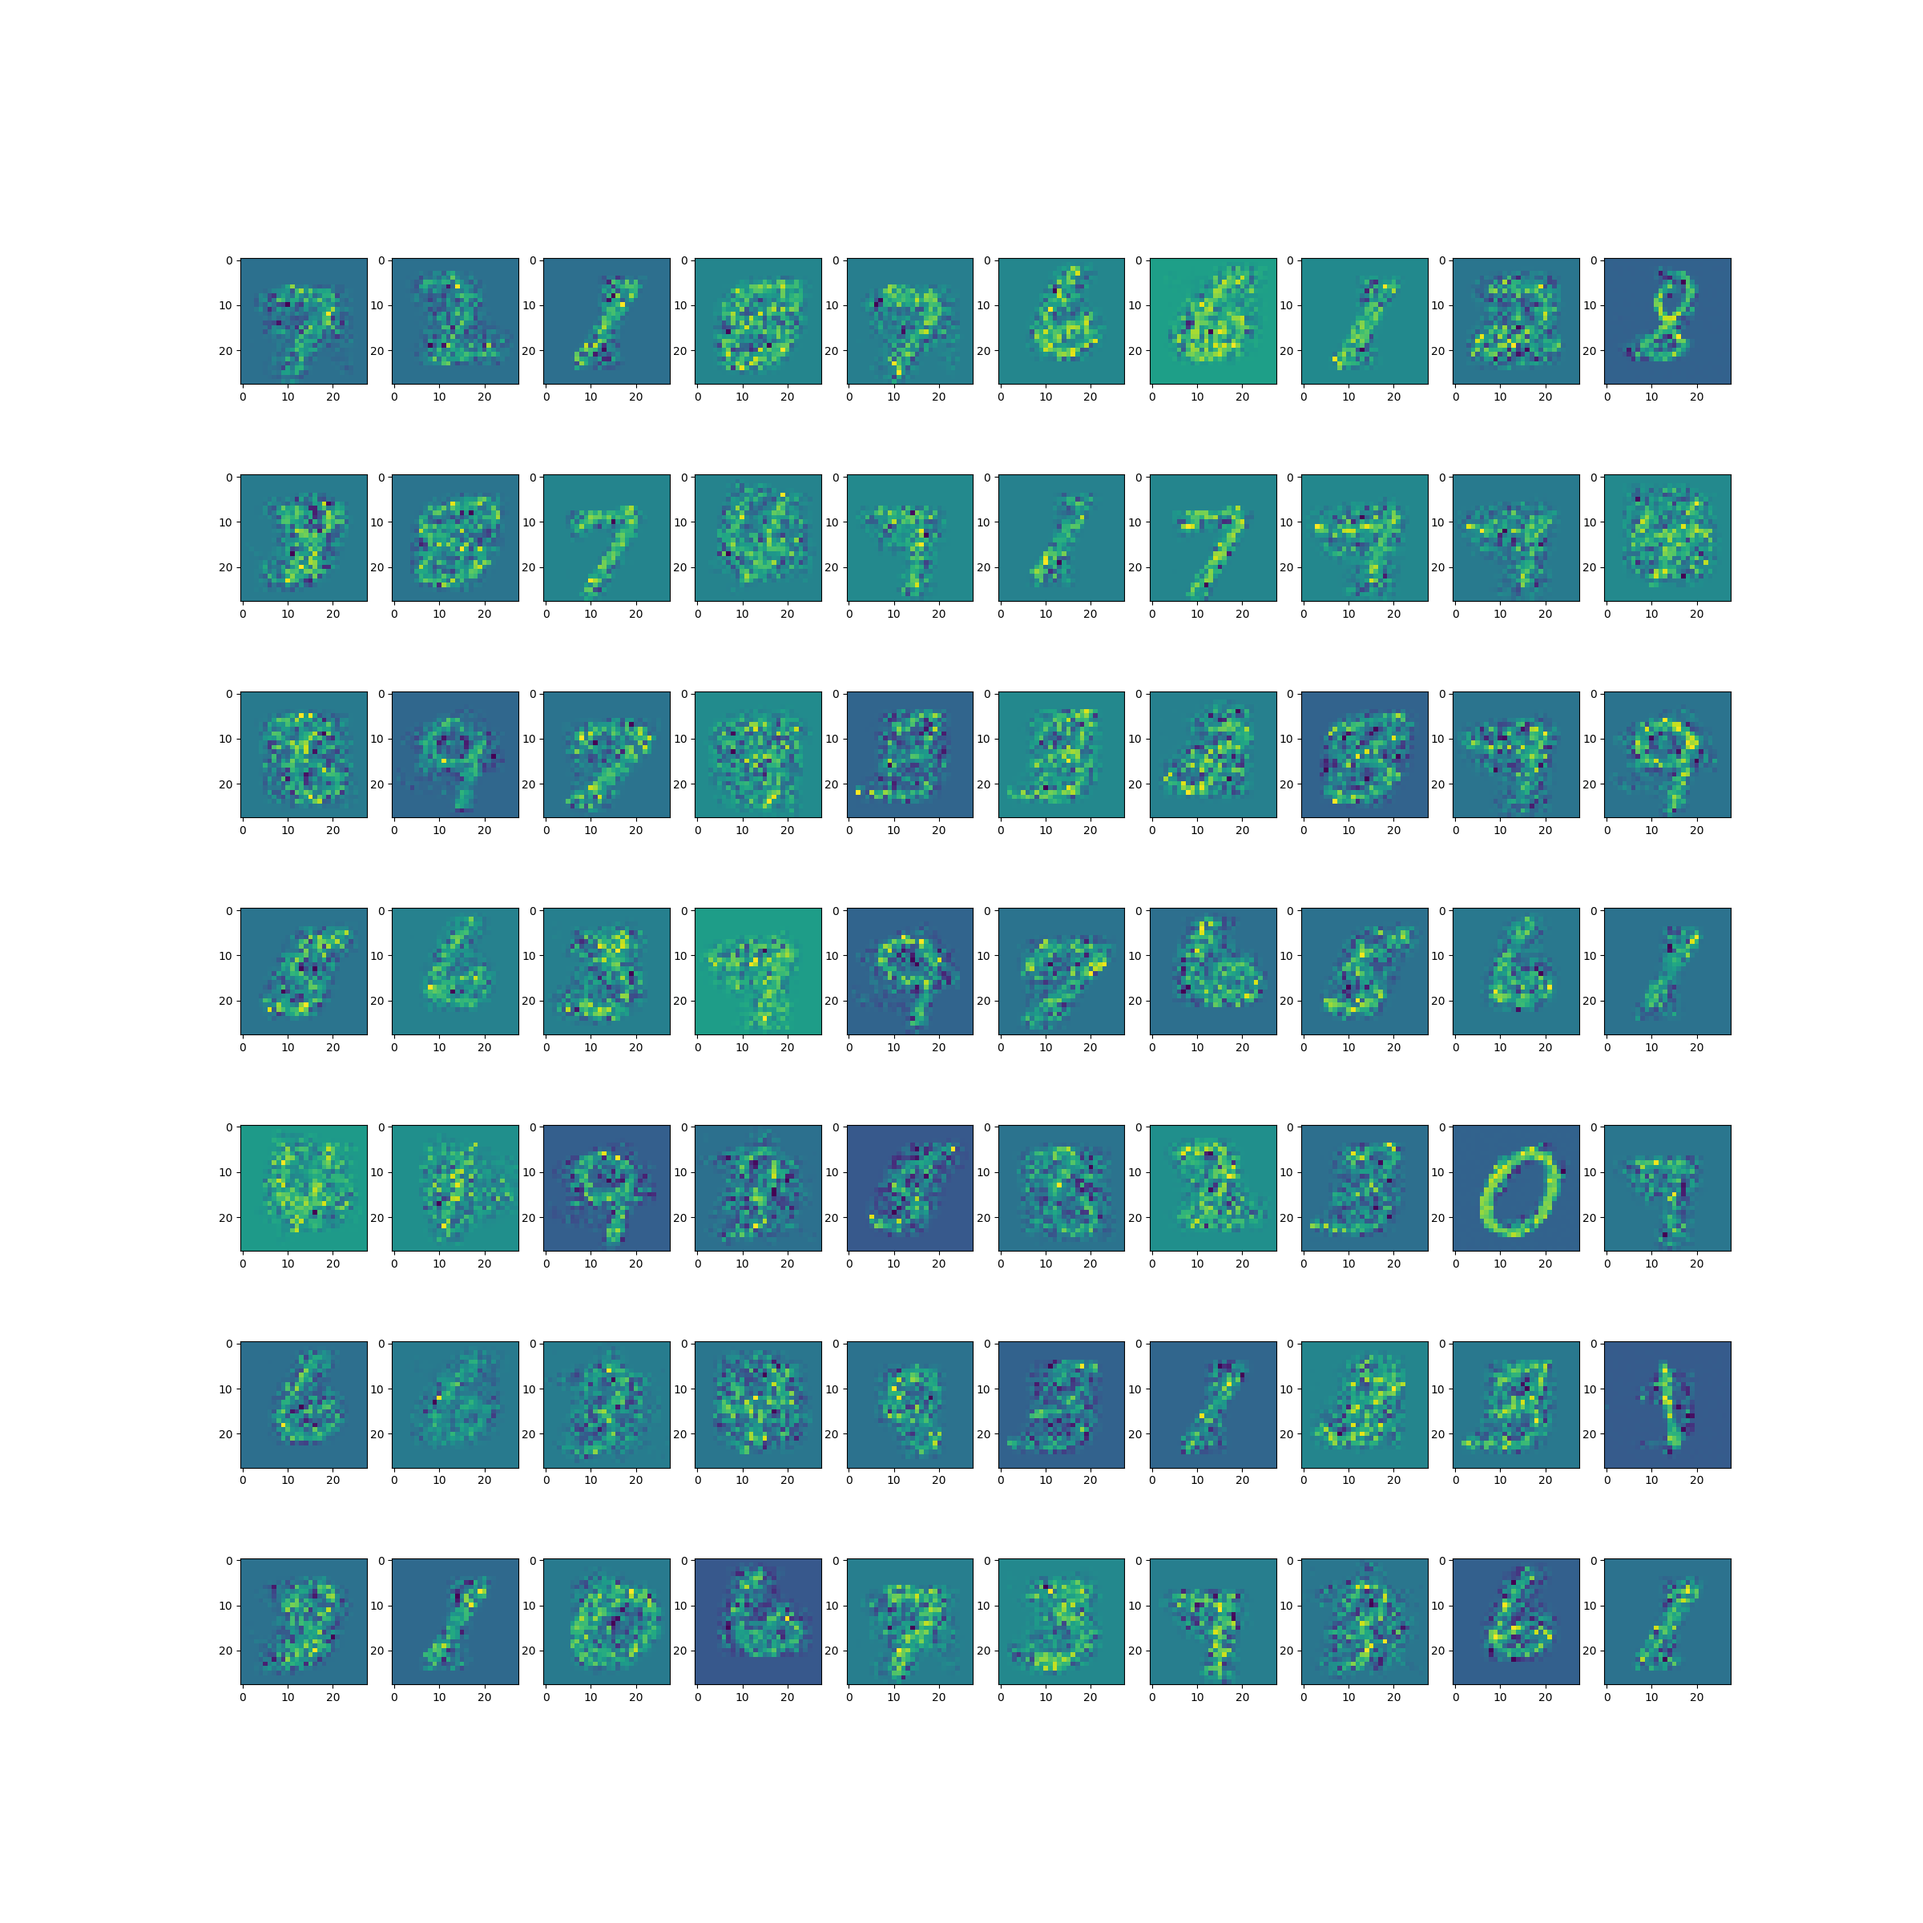
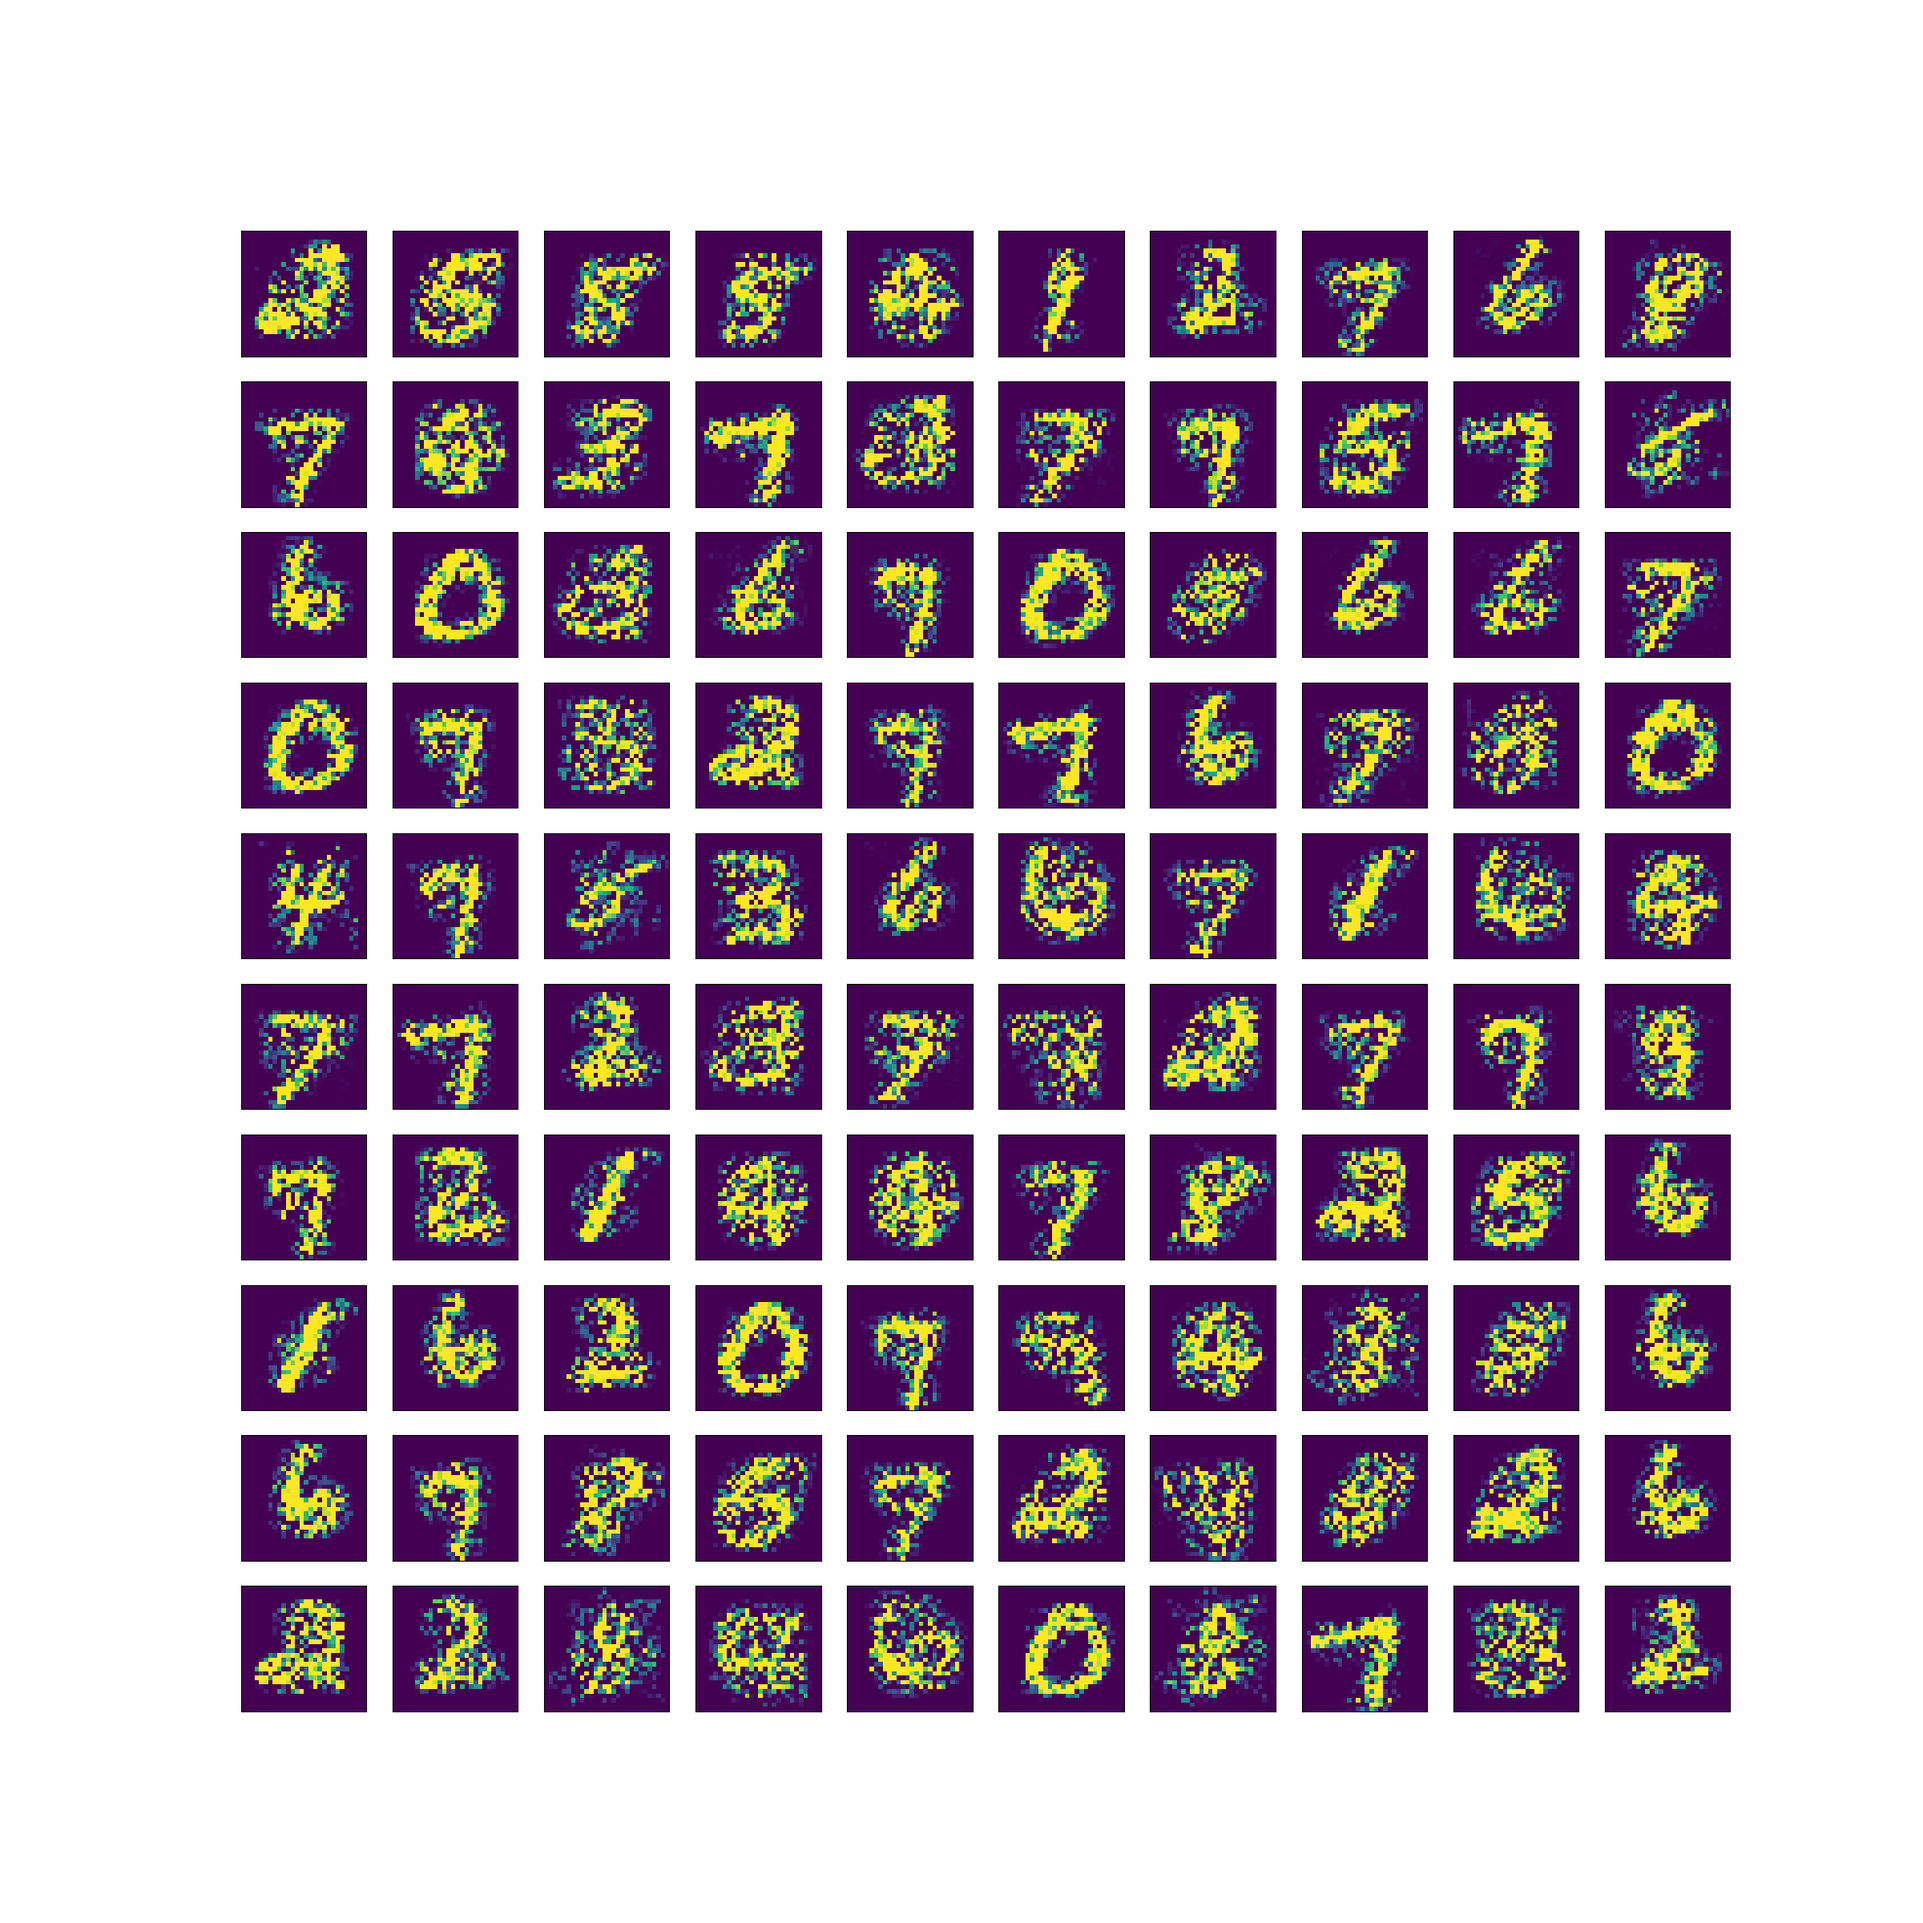
simus

diff --git a/MNIST/test_mnist.py b/MNIST/test_mnist.py
@@ -1,14 +1,18 @@
 import torch
 import matplotlib.pyplot as plt
-filename = 'dif_mnist.sav'
-model = torch.load(filename)
+filename = 'dif_mnist0.sav'
+model = torch.load(filename, map_location=torch.device('cpu'))
 print(model.loss_values[-1])
+print(model.w.network_dimensions)
 with torch.no_grad():
-    sample = model.sample_model(70)
-n_row =7 
-n_col = 10
+    sample = model.sample_model(36)
+    print(torch.max(sample))
+n_row =6
+n_col =6
 _, axs = plt.subplots(n_row, n_col, figsize=(24,24))
 axs = axs.flatten()
 for i, ax in enumerate(axs):
-    ax.imshow(sample[i].reshape(28,28).numpy())
-plt.savefig('test.png')
+    ax.tick_params(left=False, right=False, labelleft=False,
+                    labelbottom=False, bottom=False)
+    ax.imshow(sample[i].reshape(28,28).numpy(), vmin = 0, vmax=1, cmap = 'gray')
+plt.savefig('test_0.png')

diff --git a/MNIST/mnist_maf.py b/MNIST/mnist_maf.py
@@ -1,5 +1,5 @@
 import torch
-from models_nf import RealNVPDensityEstimatorLayer, MixedModelDensityEstimator
+from models_nf import MixedModelDensityEstimator, MAFLayer
 
 
 import torchvision.datasets as datasets
@@ -18,15 +18,15 @@ num_samples = target_samples.shape[0]
 print('number of samples = ' + str(num_samples))
 p = target_samples.shape[-1]
 
-structure = [[RealNVPDensityEstimatorLayer,[256,256,256]] for i in range(10)]
+structure = [[MAFLayer,[256,256,256]] for i in range(10)]
 rnvp = MixedModelDensityEstimator(target_samples, structure)
 print(rnvp.compute_number_params())
 
-epochs = 1000
+epochs = 10000
 batch_size = 6000
 rnvp.train(epochs, batch_size)
 
-filename = 'nsf_mnist.sav'
+filename = 'maf_mnist_best.sav'
 torch.save(rnvp, filename)
 
 

diff --git a/MNIST/mnist_dif.py b/MNIST/mnist_dif.py
@@ -19,12 +19,10 @@ target_samples = (extracted + torch.rand_like(extracted))/256
 num_samples = target_samples.shape[0]
 print('number of samples = ' + str(num_samples))
 p = target_samples.shape[-1]
+K = 60
+dif = DIFDensityEstimator(target_samples, K)
+dif.w = SoftmaxWeight(K,p, [512,512,256,256,128,128])
+dif.train(10000, 6000)
 
-for i in range(10):
-    K = 70
-    dif = DIFDensityEstimator(target_samples, K)
-    dif.w = SoftmaxWeight(K,p, [512,512,256,256,128,128])
-    dif.train(10000, 6000)
-
-    filename = 'dif_mnist_best_2.sav'
-    torch.save(dif, filename)
+filename = 'dif_mnist_best.sav'
+torch.save(dif, filename)
